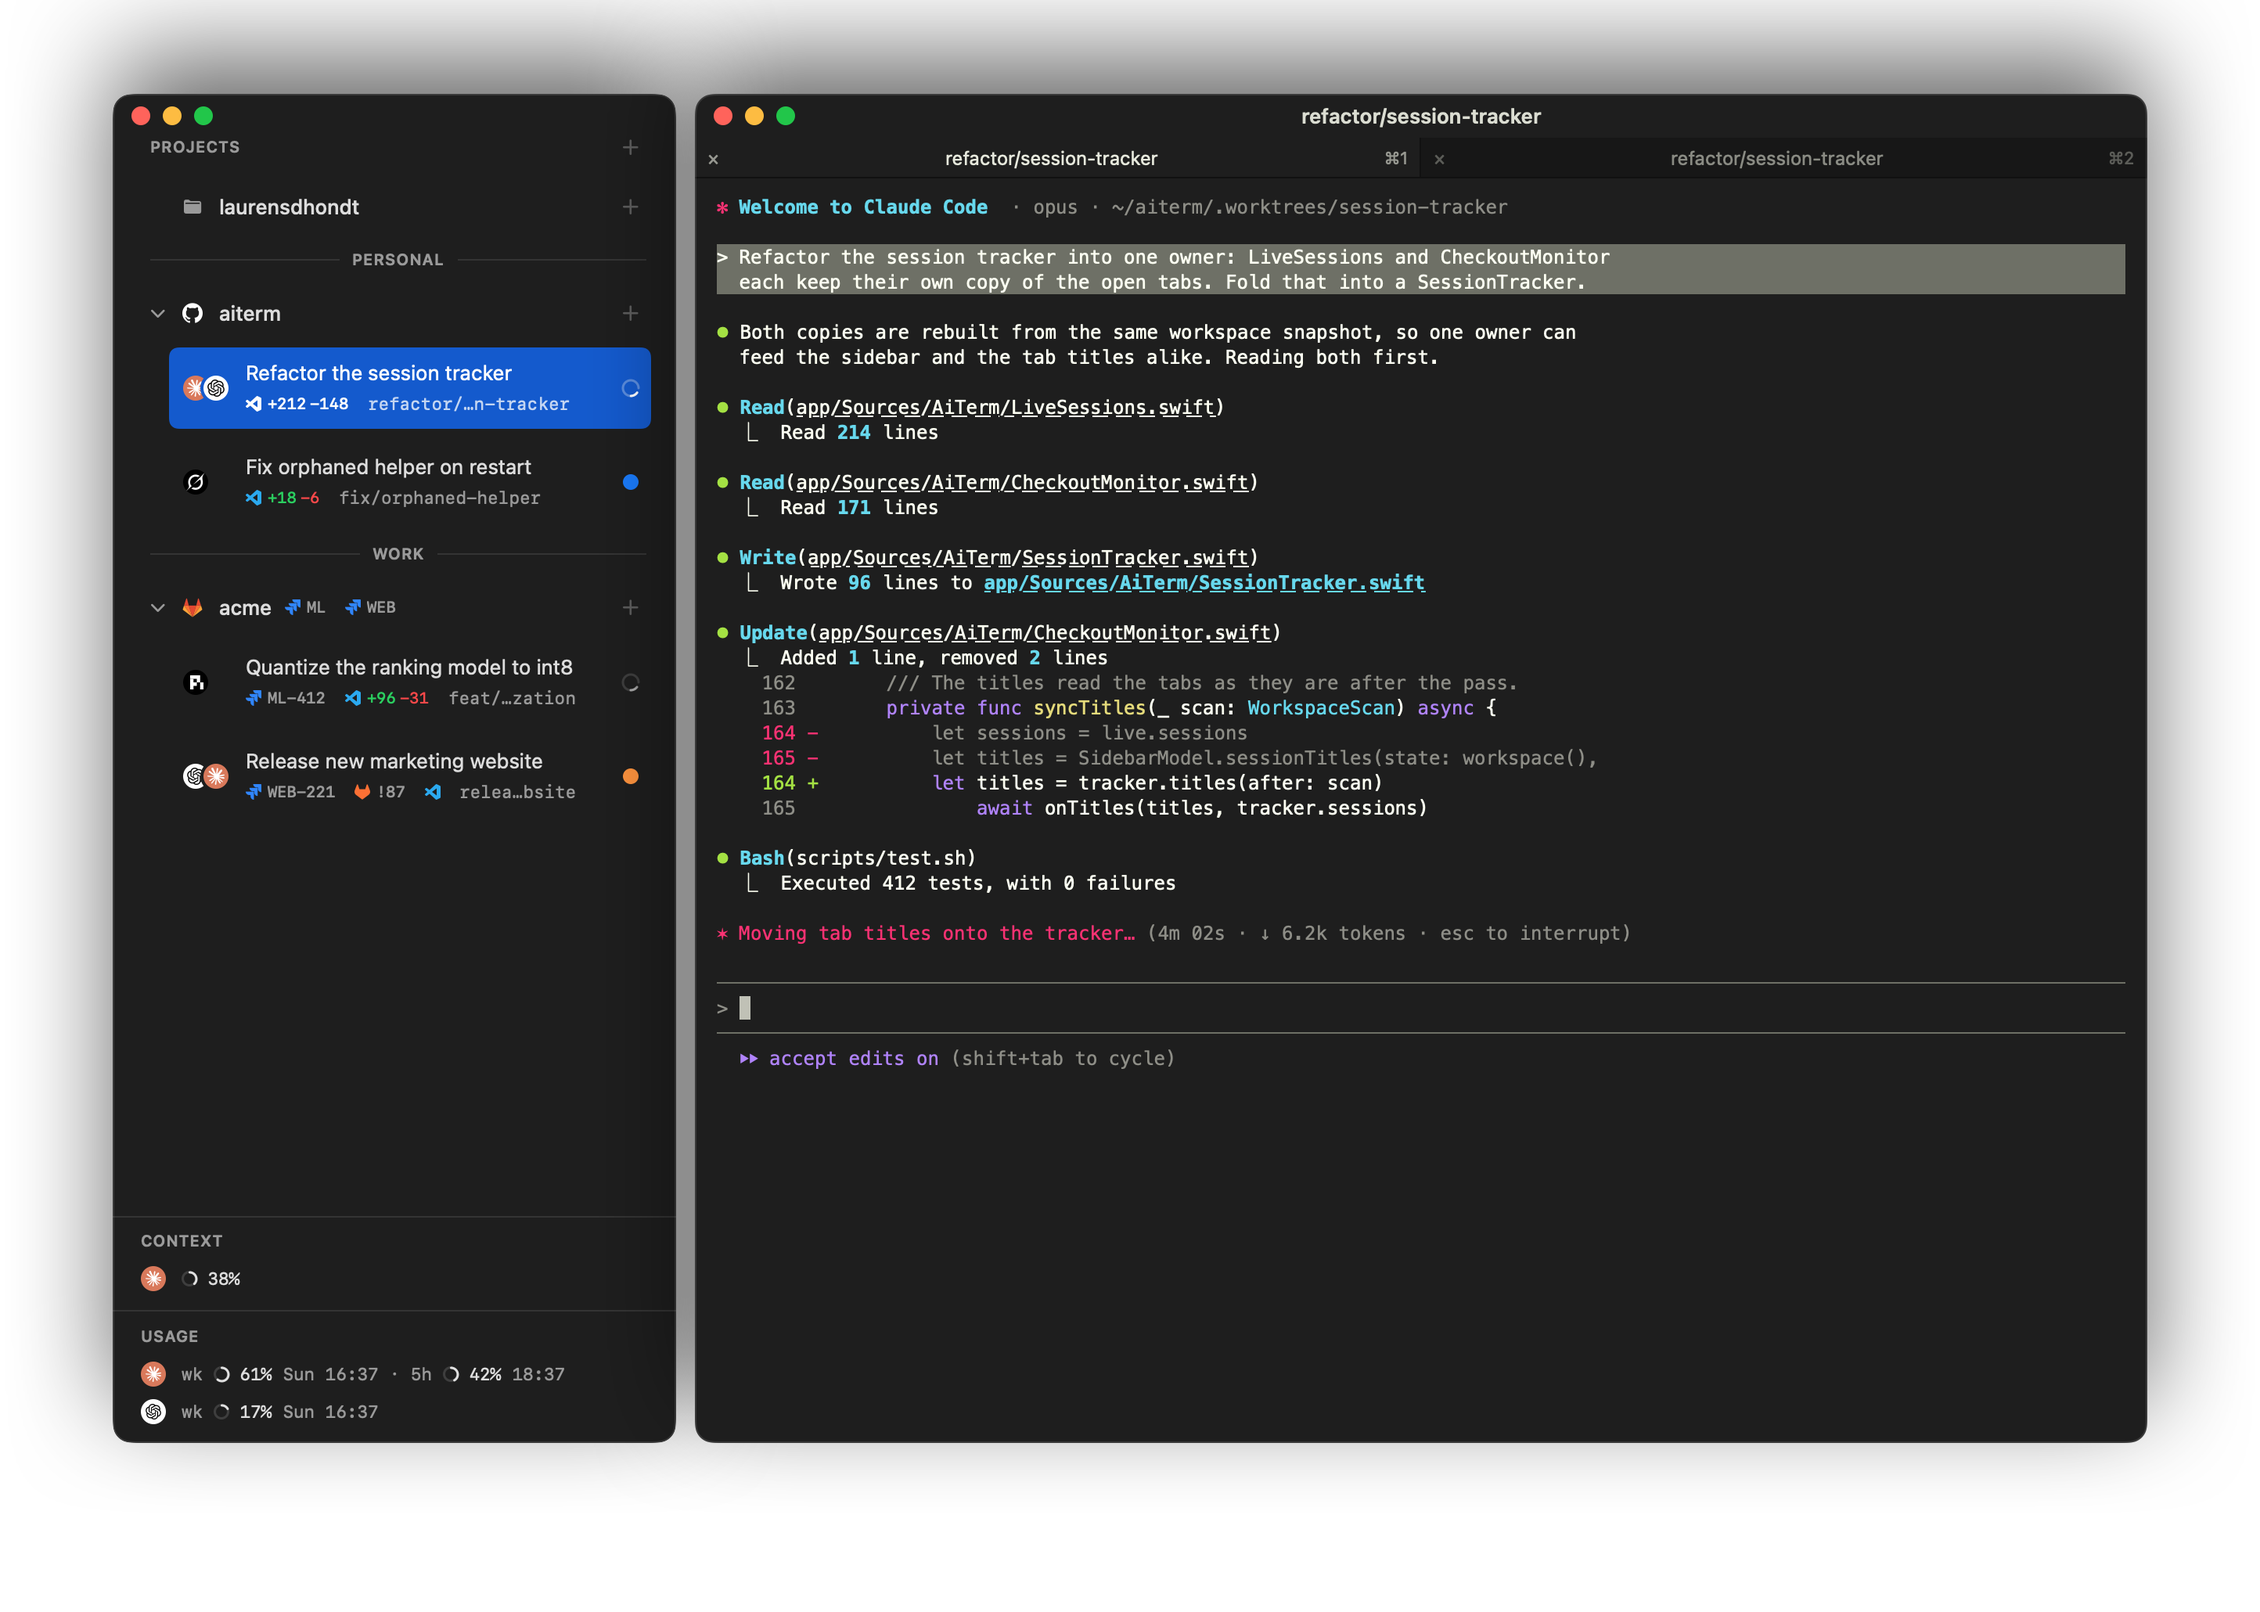
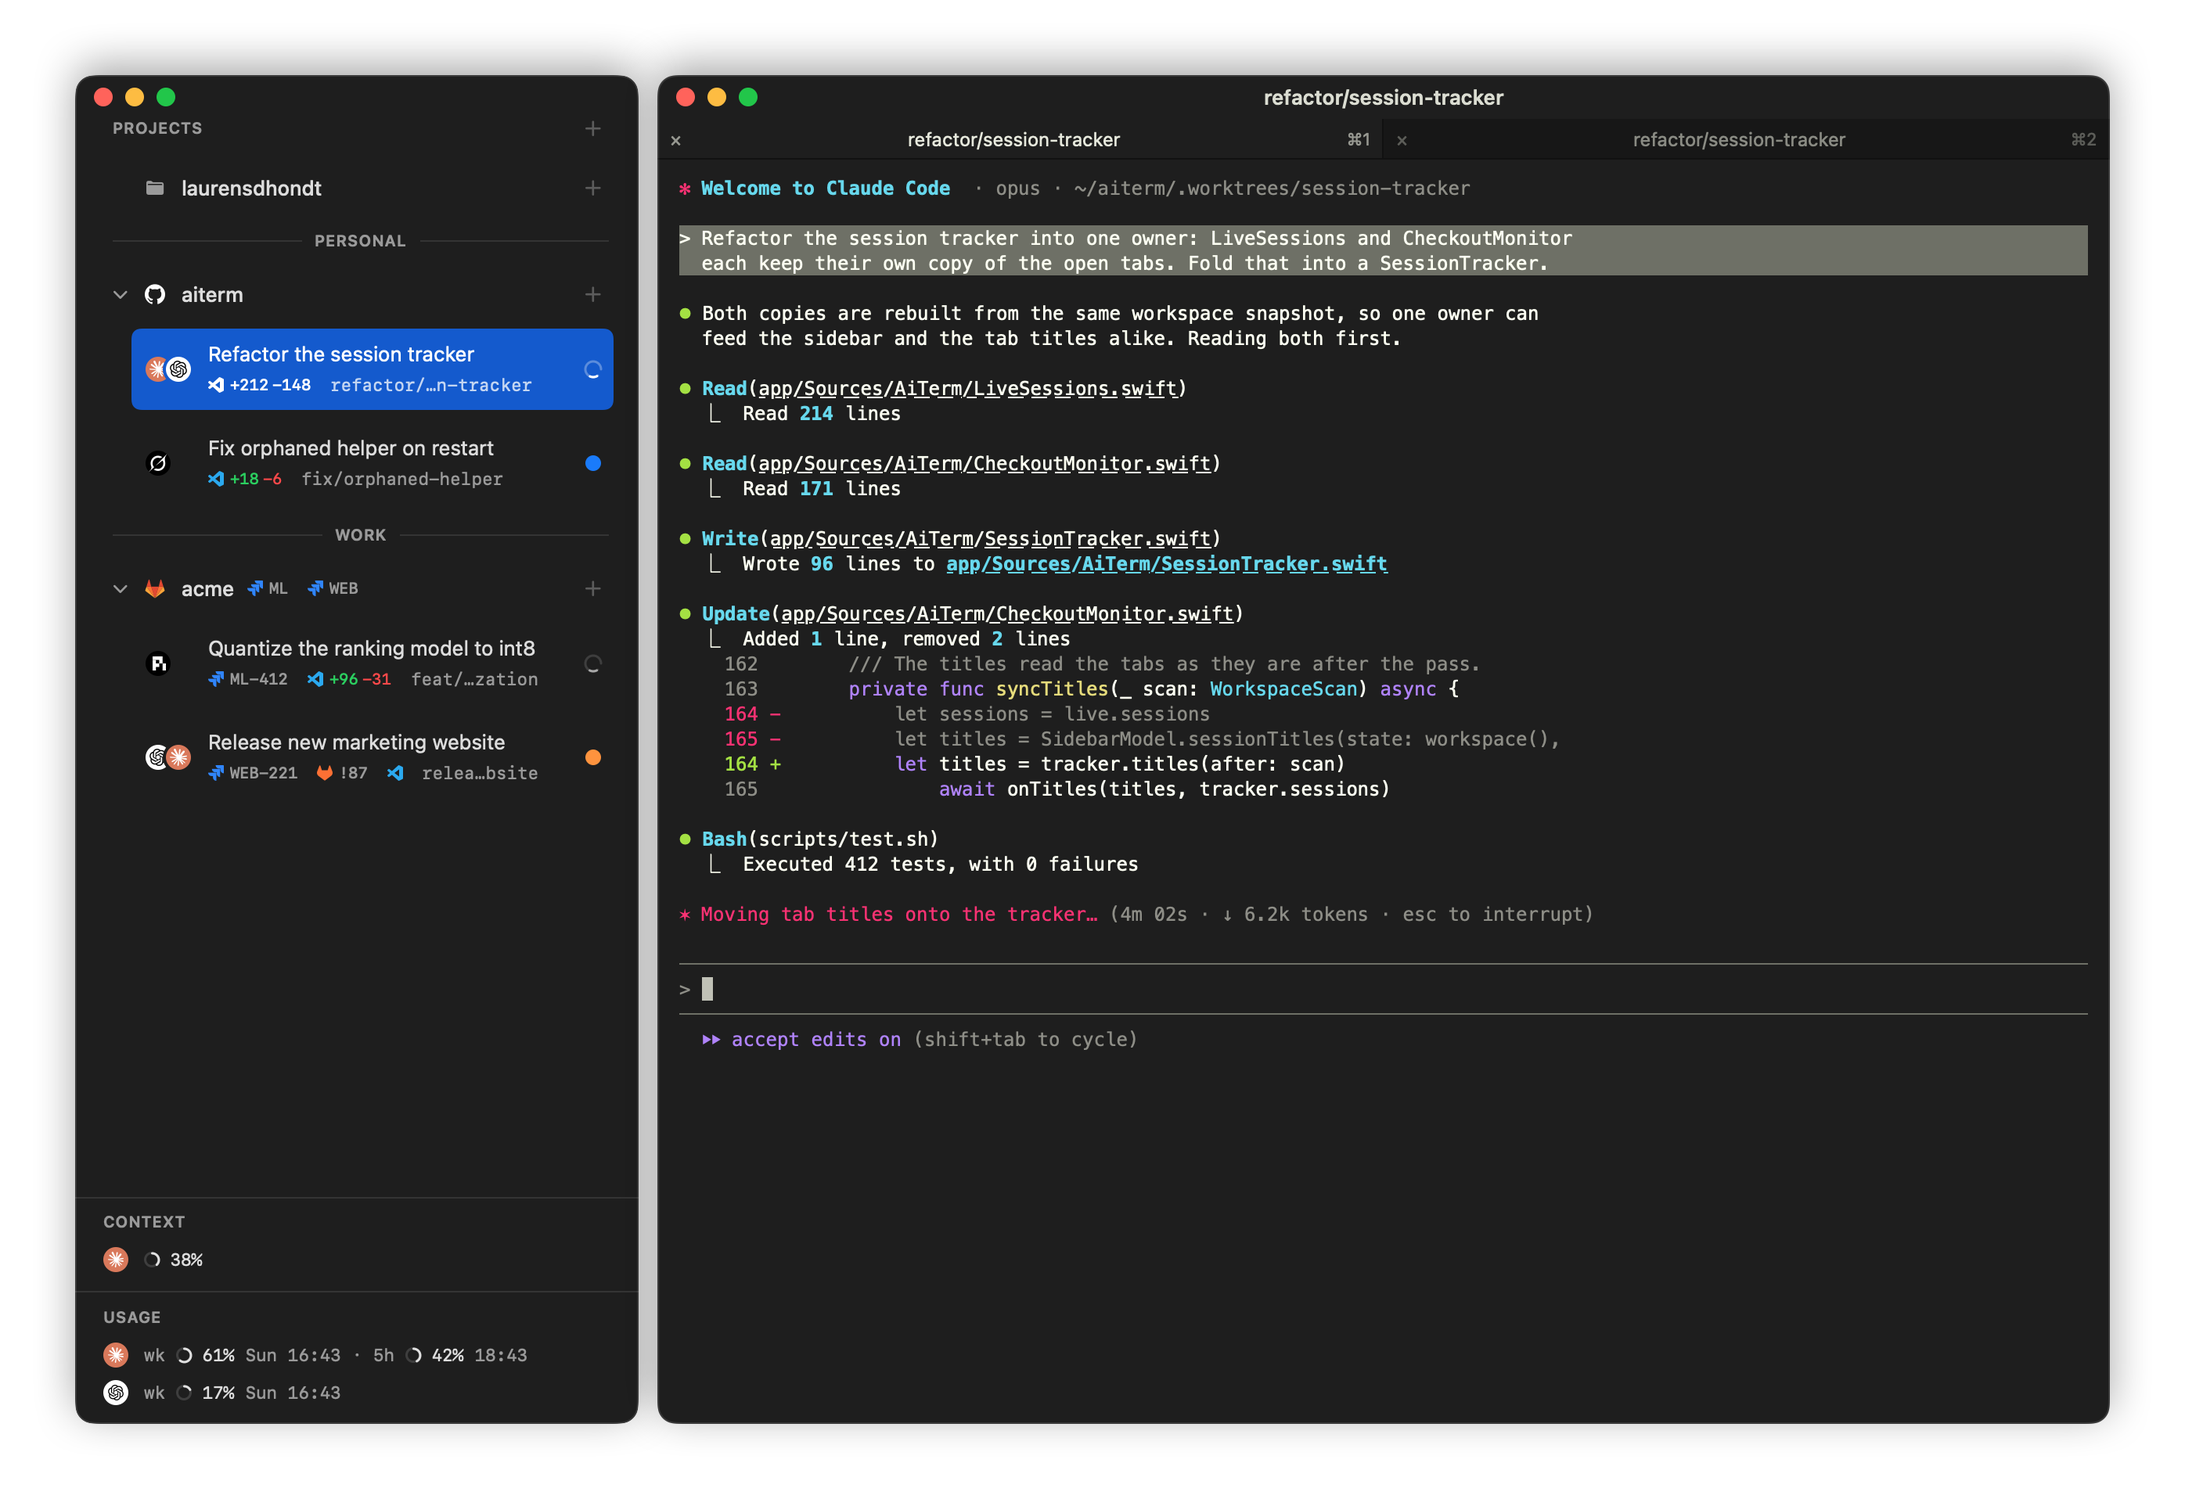
Soften the README picture's shadow and even its margin
The windows' shadow is lighter and tighter, and the transparent margin
is 48 pt on every side, so the shadow fades out before the edge instead
of being cut off at the top and leaving a deeper band below.

diff --git a/app/Sources/AiTerm/Snapshots.swift b/app/Sources/AiTerm/Snapshots.swift
@@ -655,9 +655,9 @@ private struct ReadmeDesktop: View {
 
     /// The windows' size, as they were on the 1512 × 982 pt desktop the picture used to sit on.
     static let windowHeight: CGFloat = 862, windowsWidth: CGFloat = 1300, gap: CGFloat = 12
-    /// The transparent margin around the windows: enough for `DesktopWindow`'s shadow, which
-    /// falls 24 pt down, so the bottom gets more than the top.
-    static let side: CGFloat = 72, top: CGFloat = 60, bottom: CGFloat = 108
+    /// The transparent margin around the windows, the same on every side and wide enough that
+    /// `DesktopWindow`'s shadow has faded out before the picture's edge.
+    static let margin: CGFloat = 48
     /// The band a window's traffic lights sit in, and iTerm2's title bar.
     static let titleBar: CGFloat = 28
 
@@ -673,13 +673,12 @@ private struct ReadmeDesktop: View {
             DesktopWindow { ItermWindow(title: tabTitle, tabs: tabs) }
                 .frame(width: terminalWidth, height: Self.windowHeight)
         }
-        .padding(.horizontal, Self.side)
-        .padding(.top, Self.top).padding(.bottom, Self.bottom)
+        .padding(Self.margin)
     }
 }
 
 /// A window's frame: rounded, edged in a faint light line, its traffic lights over the content's
-/// top band, and a deep shadow on whatever the picture is set on.
+/// top band, and a soft shadow on whatever the picture is set on.
 private struct DesktopWindow<Content: View>: View {
     @ViewBuilder let content: Content
 
@@ -696,7 +695,7 @@ private struct DesktopWindow<Content: View>: View {
             }
             .clipShape(shape)
             .overlay(shape.strokeBorder(Color.white.opacity(0.12), lineWidth: 1))
-            .shadow(color: .black.opacity(0.6), radius: 35, y: 24)
+            .shadow(color: .black.opacity(0.35), radius: 14, y: 6)
     }
 }
 
